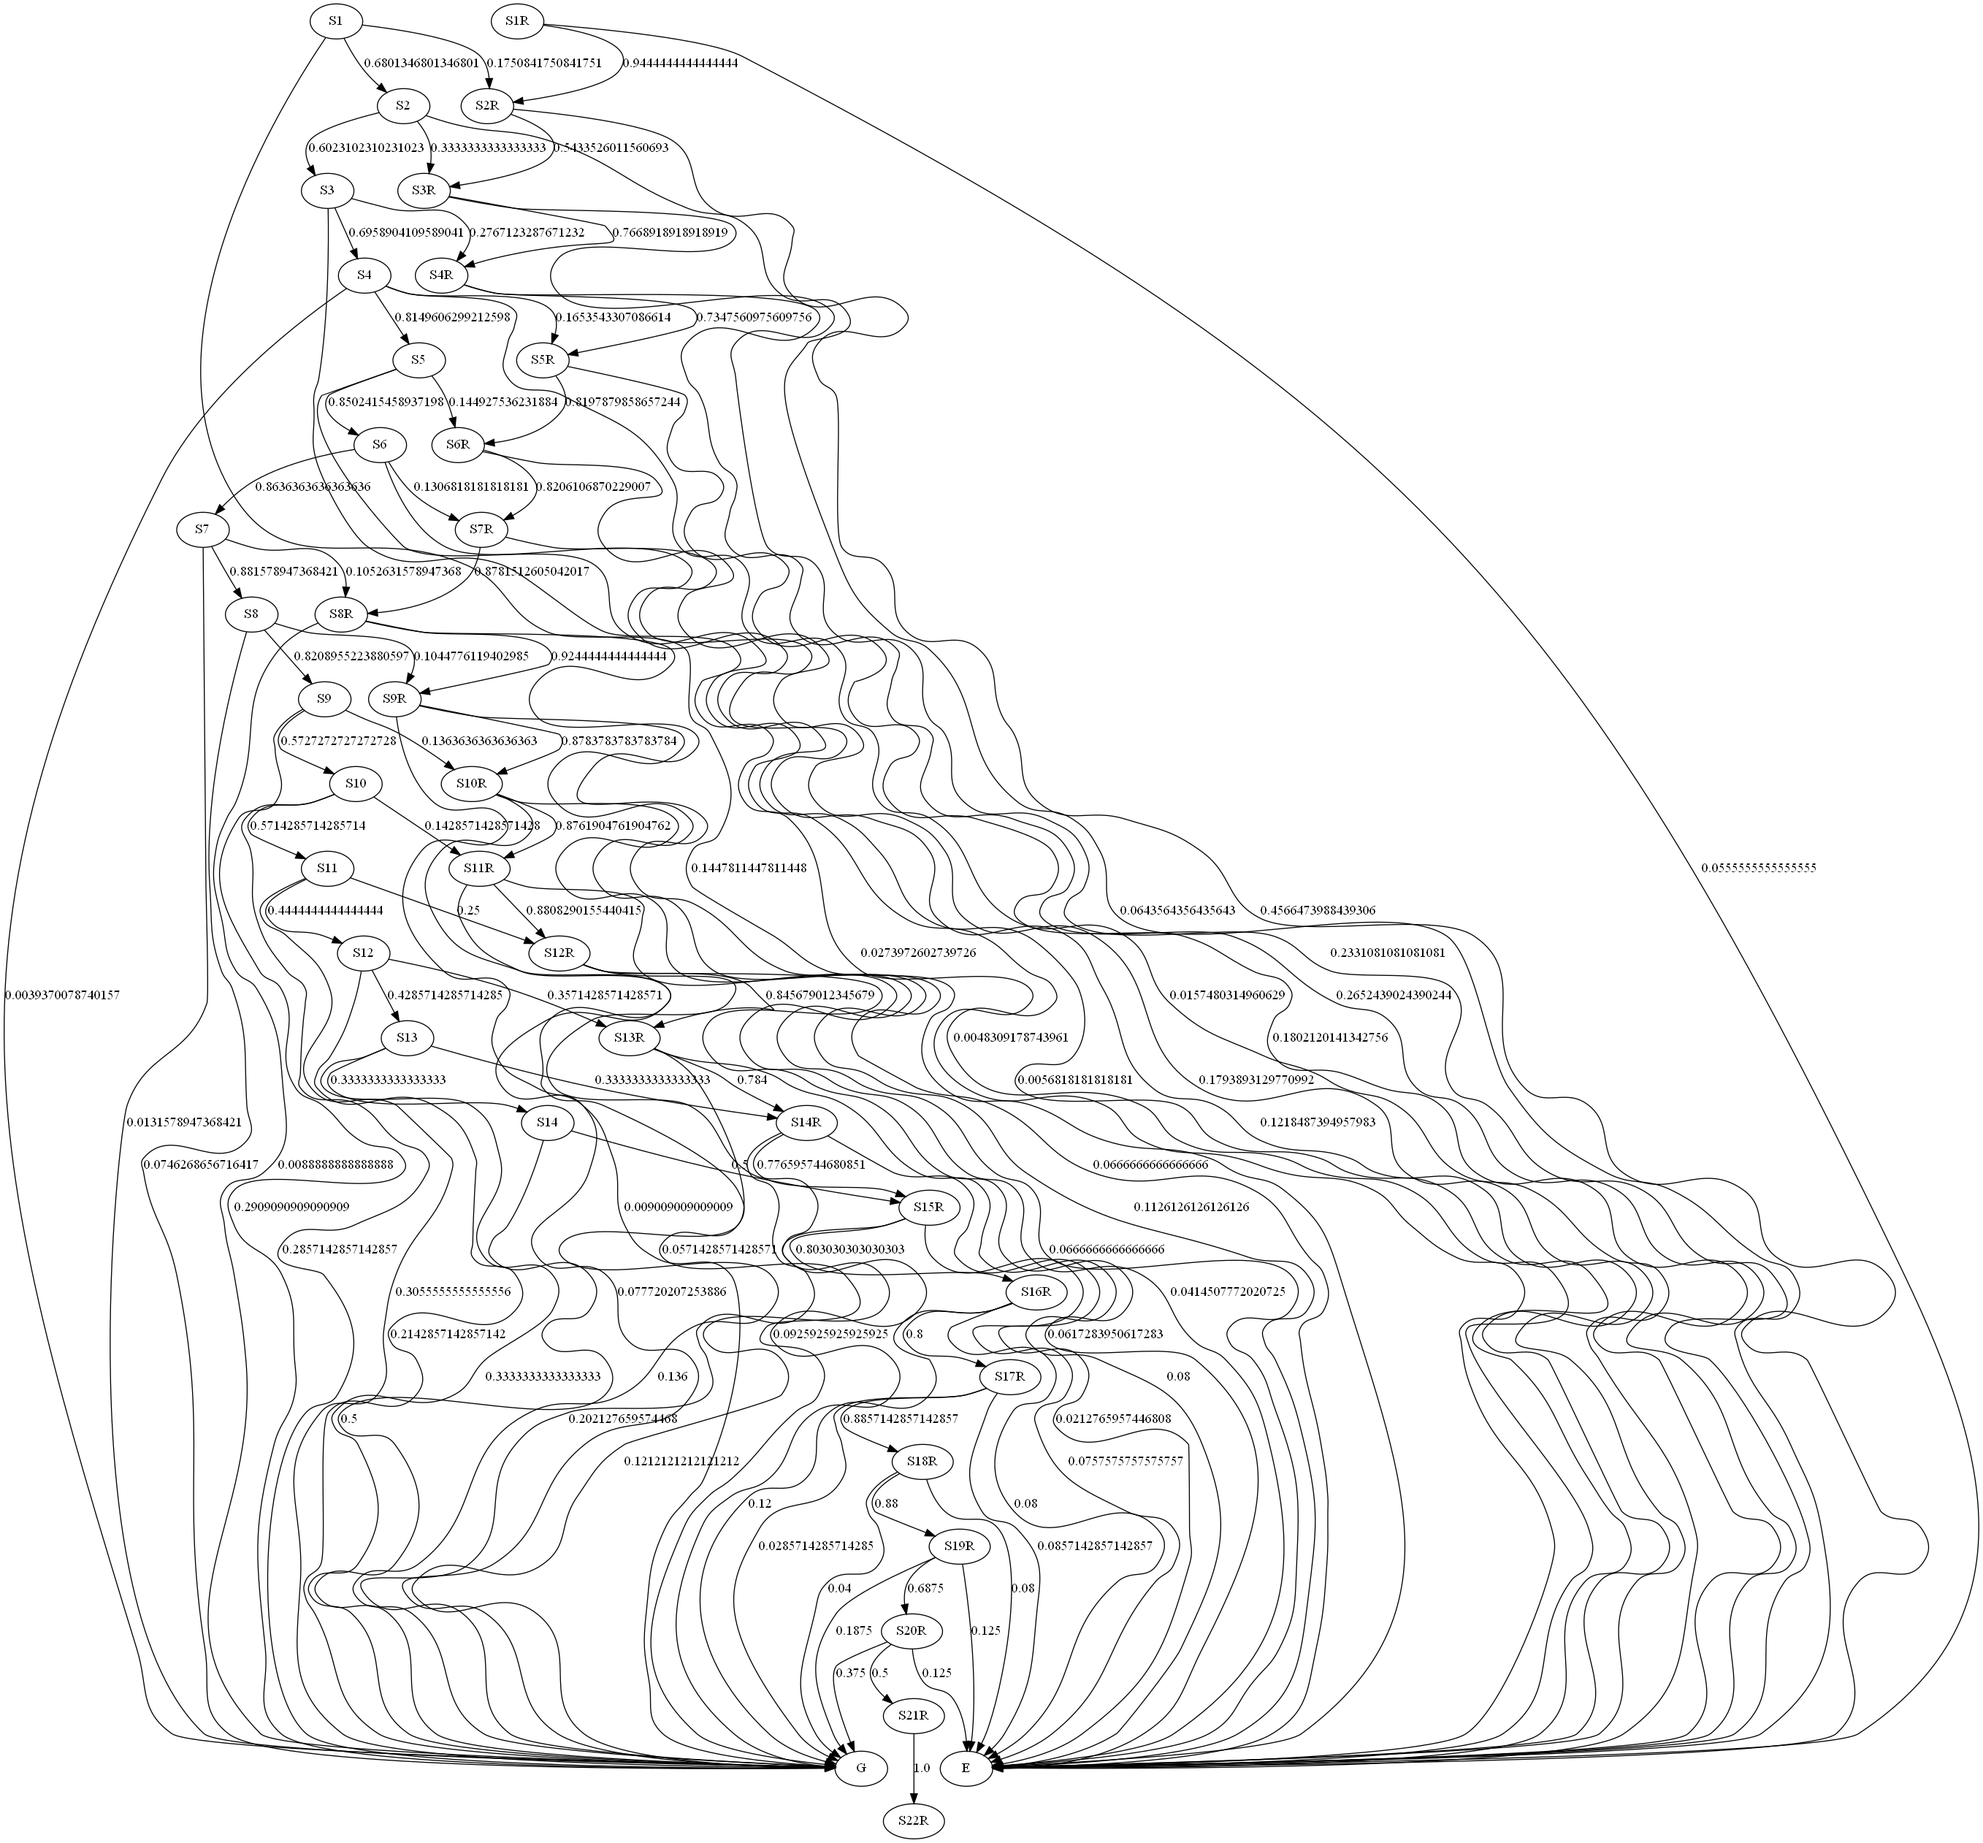
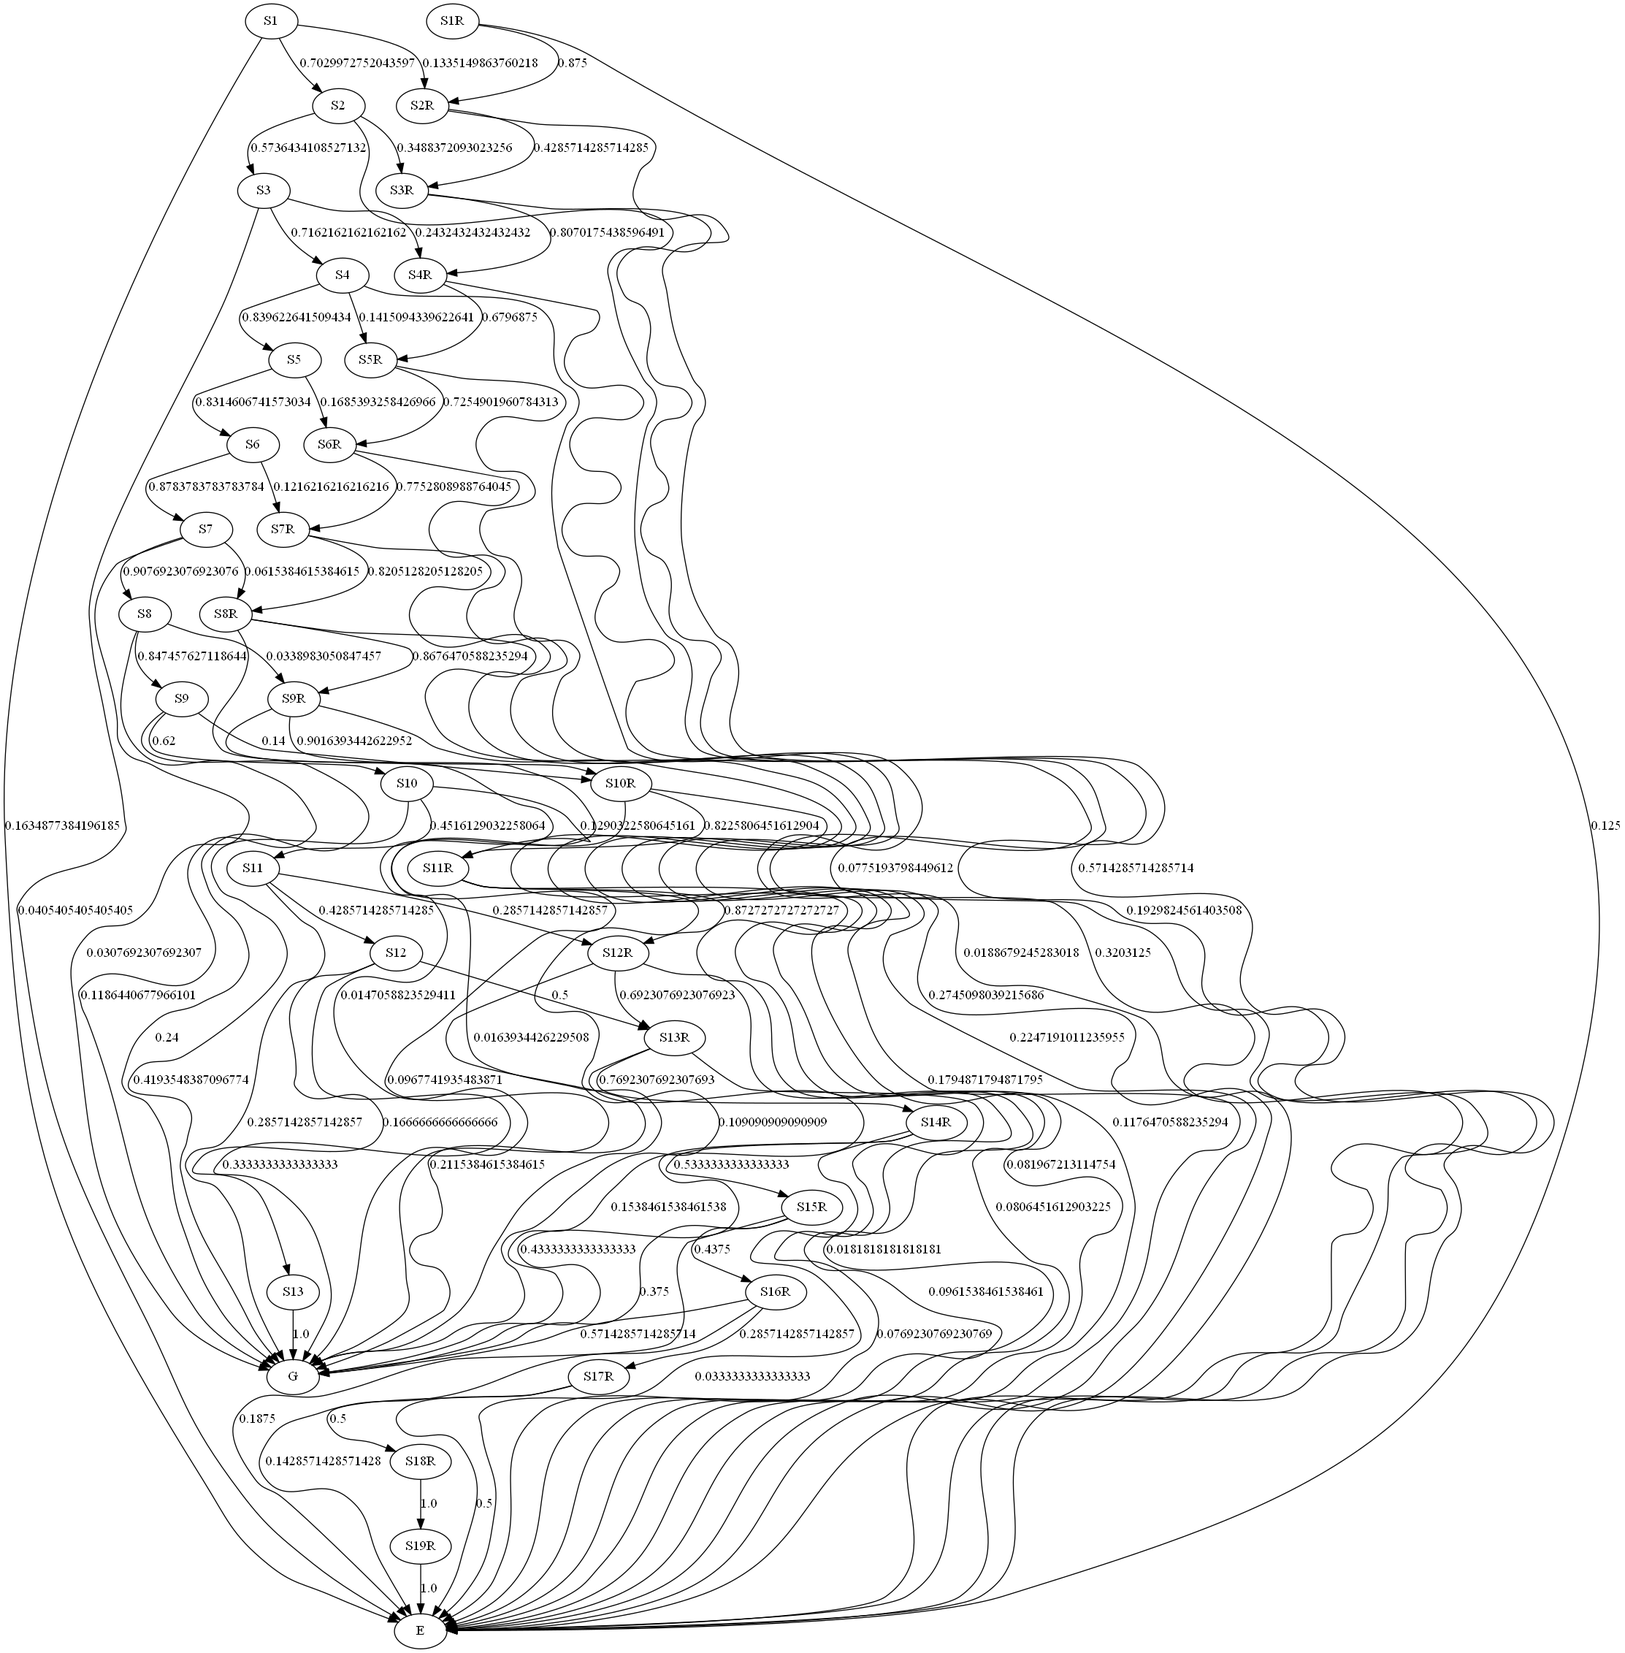
Experimentos

diff --git a/generate_probabilities.py b/generate_probabilities.py
@@ -2,7 +2,6 @@ import pandas as pd
 import numpy as np
 from markov_diagram import Diagram
 
-
 # Gerar csv com matriz de transicao e desenho da cadeia de markov
 def generate_csv_and_diagram(arquivo, states, p):
     q_df = pd.DataFrame(columns=states, index=states)
@@ -46,12 +45,6 @@ def transition_matrix(transitions):
 
     print(M)
 
-    # Gambiarra para fazer com estudantes que ainda não evadiram ou graduaram -  não apague!
-    for i in range(len(M)):
-        for j in range(len(M)):
-            if j == 0:
-                M[i][j] = 0
-
     # converte para probabilidades:
     for row in M:
         s = sum(row)
@@ -77,8 +70,6 @@ def apagar_reintegrados(df):
                 if not item in erros:
                     erros.append(item)
 
-    print(erros)
-
     for i in range(len(erros)):
         df = df[df['NU_MATR_CURSO'] != erros[i]]
 
@@ -101,26 +92,21 @@ def gerar_csv_matriz_probab(dados):
     df.loc[((df['QTD_REPROVADO_ACUM'] - df['QTD_REPROVADO']) < df['QTD_DISCIPLINAS_PERIODO']) & (
             df['QTD_TRANCAMENTOS_ACUM'] < 1), 'RETIDO'] = False
 
-    # df = evade_ou_conclu(df)
-    # df.rename(columns={'STATUS_x': 'STATUS', 'DURACAO_VINCULO_x': 'DURACAO_VINCULO', 'RETIDO_x': 'RETIDO', 'RETIDO_x': 'RETIDO'})
+    df = evade_ou_conclu(df)
 
-    # df = apagar_reintegrados(df)
-    # Reintegrados
-    erros = [200610330, 200632094, 200632584, 200659979, 200678895, 200626145, 200632598, 200632612, 200650641, 200650658, 200659166, 200664331, 200695510]
-    for i in range(len(erros)):
-        df = df[df['NU_MATR_CURSO'] != erros[i]]
+    df = apagar_reintegrados(df)
 
     return df
 
 
 def altera_duracao_estados(df):
     # Começa pelo 0 para criar matriz
-    df['DURACAO_VINCULO'] = df['DURACAO_VINCULO'] - 1
+    df['DURACAO_VINCULO_x'] = df['DURACAO_VINCULO_x'] - 1
 
     # Altera DURACAO_VINCULO conforme status e retido
-    df.loc[df['RETIDO'] == True, 'DURACAO_VINCULO'] = df['DURACAO_VINCULO'] + 22
-    df.loc[df['STATUS'] == 'EVADIDO', 'DURACAO_VINCULO'] = 44
-    df.loc[df['STATUS'] == 'CONCLUIDO', 'DURACAO_VINCULO'] = 45
+    df.loc[df['RETIDO_x'] == True, 'DURACAO_VINCULO_x'] = df['DURACAO_VINCULO_x'] + 22
+    df.loc[df['STATUS_x'] == 'EVADIDO', 'DURACAO_VINCULO_x'] = 44
+    df.loc[df['STATUS_x'] == 'CONCLUIDO', 'DURACAO_VINCULO_x'] = 45
 
     return df
 
@@ -130,7 +116,7 @@ df = gerar_csv_matriz_probab("docs/df_survivability_bsi-bcc.csv")
 df = altera_duracao_estados(df)
 
 # Ano
-df = df.loc[df['CD_PERD_ADMIS'] < 2015]
+df = df.loc[df['CD_PERD_ADMIS_x'] < 2015]
 
 # # Sexo
 # df = df[df['NM_SEXO_x'] == 'F']
@@ -152,10 +138,15 @@ states = ['S1', 'S2', 'S3', 'S4', 'S5', 'S6', 'S7', 'S8', 'S9', 'S10', 'S11', 'S
 # Sem retido
 # states = ['S1', 'S2', 'S3', 'S4', 'S5', 'S6', 'S7', 'S8', 'S9', 'S10', 'S11', 'S12', 'S13', 'S14', 'S15', 'S16', 'S17', 'S18', 'S19', 'S20', 'S21', 'E', 'G']
 
-t = df['DURACAO_VINCULO']
+t = df['DURACAO_VINCULO_x']
 p = transition_matrix(t)
 p[44] = np.zeros(46)
 p[45] = np.zeros(46)
+
+#TODO aqui
+# Diminuir probabilidade de evadir e reter nos primeiros dois anos
+
+
 
 # p = np.round(p, 2)
 # generate_csv_and_diagram("matrix/bsi-bcc-prob-evasao.csv", states, p)
@@ -163,7 +154,6 @@ p[45] = np.zeros(46)
 # generate_csv_and_diagram("matrix/bsi-bcc-sem-retencao.csv", states, p)
 # generate_csv_and_diagram("matrix/bsi-bcc-20091.csv", states, p)
 # generate_csv_and_diagram("matrix/bsi-bcc-ate-2015.csv", states, p)
-generate_csv_and_diagram("matrix/bsi-bcc-ate-2015-todos.csv", states, p)
 
 # generate_csv_and_diagram("matrix/bsi-bcc-sexo-f.csv", states, p)
 # generate_csv_and_diagram("matrix/bsi-bcc-sexo-m.csv", states, p)

diff --git a/simulation.py b/simulation.py
@@ -1,3 +1,4 @@
+import pandas as pd
 from lifelines.statistics import logrank_test
 from matplotlib import pyplot as plt
 import numpy as np
@@ -49,9 +50,9 @@ def sobrevivencia(time, event_observed, label, title):
 def prob_and_temp(state, x, tempo, quantAlunos):
     archive = open("docs/prob_and_temp.txt", "a")
     archive.write(f"Probabilidade de ser {state}: {np.round(x / quantAlunos * 100, 1)} %" + "\n")
-    archive.write(f"Tempo médio até ser {state}: {np.round(np.mean(tempo), 3)} anos" + "\n")
+    archive.write(f"Tempo médio até ser {state}: {np.round(np.mean(tempo), 3)} semestres" + "\n")
     print(f"\nProbabilidade de ser {state}: {np.round(x / quantAlunos * 100, 1)} %")
-    print(f"Tempo médio até ser {state}: {np.round(np.mean(tempo), 3)} anos")
+    print(f"Tempo médio até ser {state}: {np.round(np.mean(tempo), 3)} semestres")
 
 
 def Simu(quantAlunos, matriz):
@@ -184,8 +185,7 @@ quantAlunos = 10000
 # Simulação Geral
 # time, event, event_evadido, event_graduado = Simu(10000, 'matrix/bsi-bcc-sem-retencao.csv')
 # time, event, event_evadido, event_graduado = Simu(10000, 'matrix/bsi-bcc-20091.csv')
-# time, event, event_evadido, event_graduado = Simu(10000, 'matrix/bsi-bcc-ate-2015.csv')
-time, event, event_evadido, event_graduado = Simu(10000, 'matrix/bsi-bcc-ate-2015-todos.csv')
+time, event, event_evadido, event_graduado = Simu(10000, 'matrix/bsi-bcc-ate-2015.csv')
 
 sobrevivencia([time, time, time], [event_evadido, event_graduado, event], ['evasão', 'graduação', 'desvinculação'], "Análise de Sobrevivência")
 
